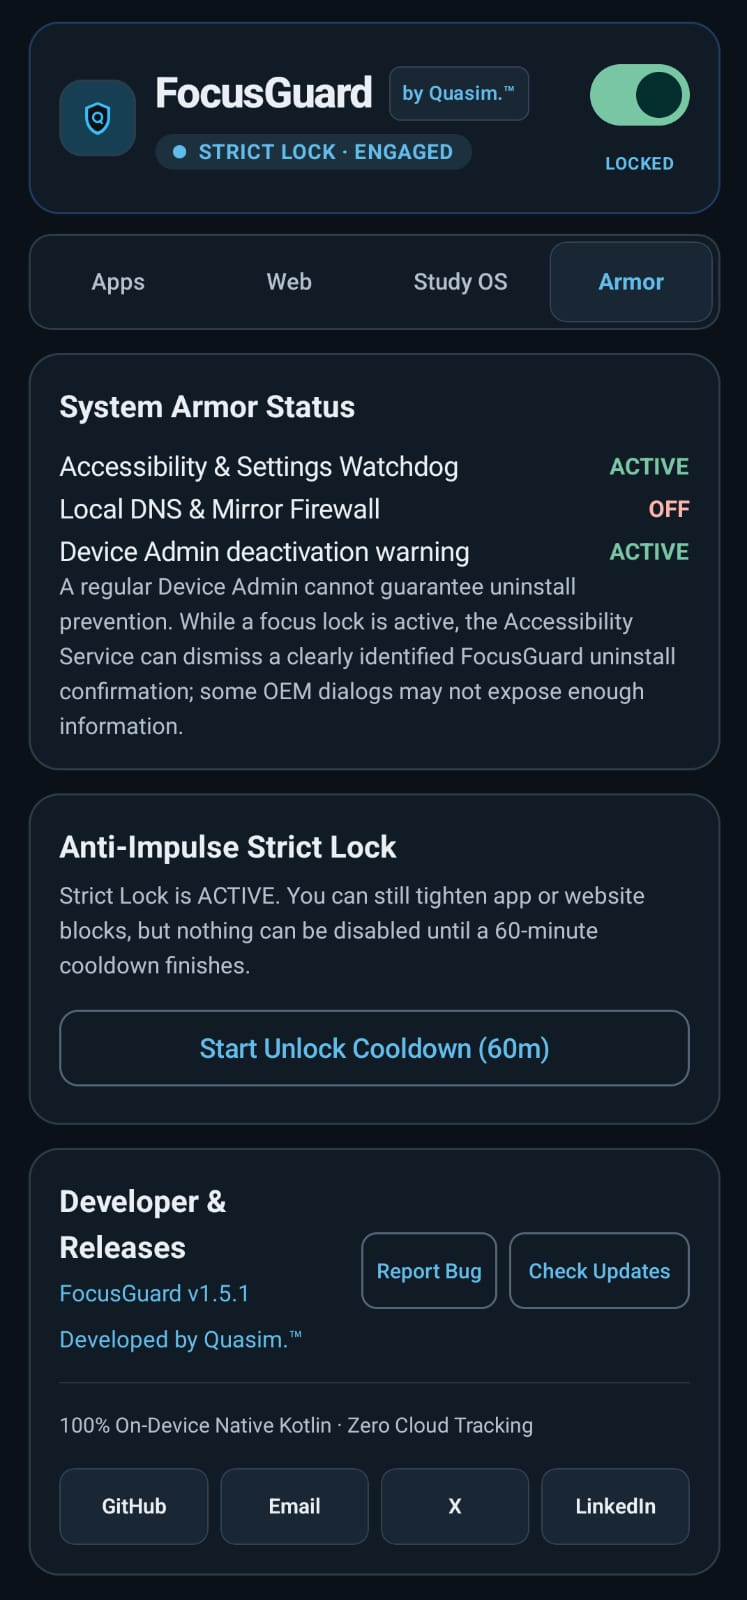
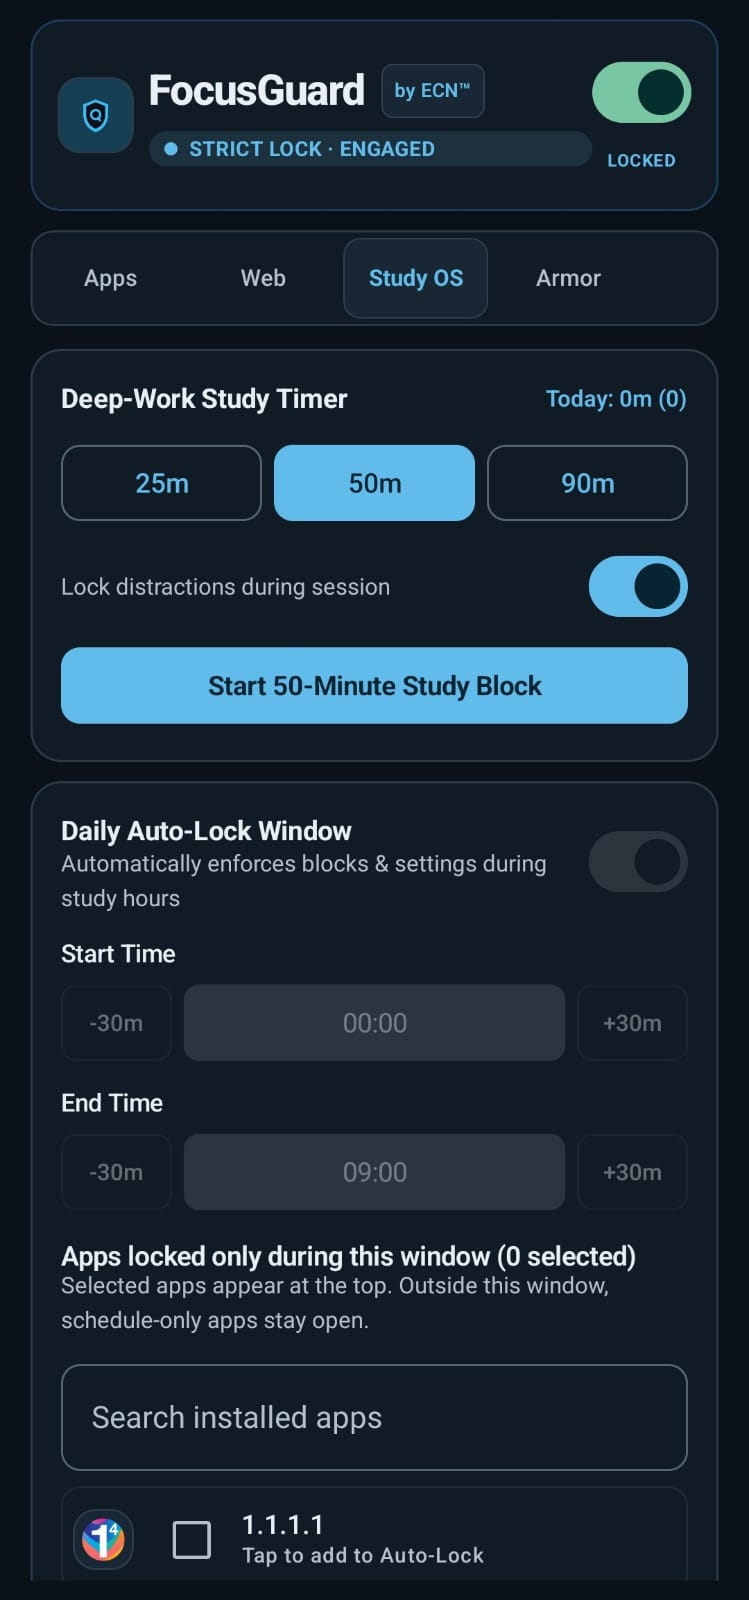
Refactor code structure for improved readability and maintainability

diff --git a/index.html b/index.html
@@ -169,7 +169,7 @@
         <a href="#setup" data-i18n="nav_setup" class="hover:text-ink transition-colors">Setup</a>
         <a href="#ecn" data-i18n="nav_ecn" class="hover:text-ink transition-colors">About ECN</a>
         <!-- Language Toggle Button (English <-> Urdu Nastaliq) -->
-        <button type="button" id="lang-toggle-btn" aria-label="Switch language between English and Urdu"
+        <!-- <button type="button" id="lang-toggle-btn" aria-label="Switch language between English and Urdu"
           class="inline-flex items-center gap-1.5 px-2.5 sm:px-3 py-1.5 rounded-xl bg-card border border-strokeBright text-ink hover:border-mint hover:text-mint font-bold text-xs transition-all cursor-pointer">
           <svg class="w-3.5 h-3.5 text-mint shrink-0" viewBox="0 0 24 24" fill="none" stroke="currentColor"
             stroke-width="2">
@@ -178,7 +178,7 @@
             <path d="M12 2a15.3 15.3 0 0 1 4 10 15.3 15.3 0 0 1-4 10 15.3 15.3 0 0 1-4-10 15.3 15.3 0 0 1 4-10z" />
           </svg>
           <span id="lang-toggle-label" class="font-urdu text-xs leading-none">اردو</span>
-        </button>
+        </button> -->
       </div>
 
       <div class="flex items-center gap-1.5 shrink-0">
@@ -221,7 +221,7 @@
         <a href="https://github.com/quasimkhan/FocusGuard/wiki" target="_blank" rel="noopener" data-i18n="mob_wiki"
           class="mobile-nav-link px-3 py-2.5 rounded-xl hover:bg-card hover:text-ink">GitHub Wiki ↗</a>
         <!-- Language Toggle Button (English <-> Urdu Nastaliq) -->
-        <button type="button" id="lang-toggle-btn" aria-label="Switch language between English and Urdu"
+        <!-- <button type="button" id="lang-toggle-btn" aria-label="Switch language between English and Urdu"
           class="inline-flex items-center justify-center gap-1.5 px-2.5 sm:px-3 py-1.5 rounded-xl bg-card border border-strokeBright text-ink hover:border-mint hover:text-mint font-bold text-xs transition-all cursor-pointer">
           <svg class="w-3.5 h-3.5 text-mint shrink-0" viewBox="0 0 24 24" fill="none" stroke="currentColor"
             stroke-width="2">
@@ -230,7 +230,7 @@
             <path d="M12 2a15.3 15.3 0 0 1 4 10 15.3 15.3 0 0 1-4 10 15.3 15.3 0 0 1-4-10 15.3 15.3 0 0 1 4-10z" />
           </svg>
           <span id="lang-toggle-label" class="font-urdu text-xs leading-none">اردو</span>
-        </button>
+        </button> -->
       </div>
     </div>
   </header>
@@ -242,9 +242,7 @@
       <div id="hero-copy-col" class="lg:col-span-7 text-center lg:text-left reveal">
         <div
           class="inline-flex flex-wrap items-center justify-center gap-2 px-3 py-1 rounded-full bg-mint/10 border border-mint/30 text-mint text-[10px] sm:text-[11px] font-extrabold tracking-wider uppercase mb-4">
-          <span class="relative flex h-2 w-2">
-            <span class="relative inline-flex rounded-full h-2 w-2 bg-mint"></span>
-          </span>
+
           <span data-i18n="hero_badge">Free Forever · Zero Ads · 100% Offline</span>
         </div>
 
@@ -659,19 +657,26 @@
         <div class="bento-card p-3.5 text-center max-w-[300px] sm:max-w-none mx-auto w-full">
           <img src="images/1.png" alt="Command Dashboard" loading="lazy"
             class="w-full rounded-2xl border border-stroke mb-3" />
-          <h4 data-i18n="scr_1_title" class="text-sm font-extrabold">Command Dashboard</h4>
-          <p data-i18n="scr_1_desc" class="text-xs text-dim mt-0.5">Live shield health & lock timers</p>
+          <h4 data-i18n="scr_1_title" class="text-sm font-extrabold">Command Dashboard | Apps & Shorts Filter</h4>
+          <p data-i18n="scr_1_desc" class="text-xs text-dim mt-0.5">Live shield health & lock timers | Per-app Open,
+            Pause, or Block rules</p>
         </div>
         <div class="bento-card p-3.5 text-center max-w-[300px] sm:max-w-none mx-auto w-full">
           <img src="images/2.png" alt="Apps & Shorts Control" loading="lazy"
             class="w-full rounded-2xl border border-stroke mb-3" />
-          <h4 data-i18n="scr_2_title" class="text-sm font-extrabold">Apps & Shorts Filter</h4>
-          <p data-i18n="scr_2_desc" class="text-xs text-dim mt-0.5">Per-app Open, Pause, or Block rules</p>
+          <h4 data-i18n="scr_2_title" class="text-sm font-extrabold">Websites Block</h4>
+          <p data-i18n="scr_2_desc" class="text-xs text-dim mt-0.5">Blocks more than 1 lakhs harmful websites</p>
         </div>
         <div class="bento-card p-3.5 text-center max-w-[300px] sm:max-w-none mx-auto w-full">
           <img src="images/3.png" alt="Study OS & Strict Lock" loading="lazy"
             class="w-full rounded-2xl border border-stroke mb-3" />
-          <h4 data-i18n="scr_3_title" class="text-sm font-extrabold">Study OS & Armor</h4>
+          <h4 data-i18n="scr_3_title" class="text-sm font-extrabold">Study OS</h4>
+          <p data-i18n="scr_3_desc" class="text-xs text-dim mt-0.5">Block only while studying | Daily Auto Block</p>
+        </div>
+        <div class="bento-card p-3.5 text-center max-w-[300px] sm:max-w-none mx-auto w-full">
+          <img src="images/4.png" alt="Study OS & Strict Lock" loading="lazy"
+            class="w-full rounded-2xl border border-stroke mb-3" />
+          <h4 data-i18n="scr_4_title" class="text-sm font-extrabold">Armor & Settings</h4>
           <p data-i18n="scr_3_desc" class="text-xs text-dim mt-0.5">Pomodoro & tamper-proof cooldowns</p>
         </div>
       </div>
@@ -888,7 +893,7 @@
                 Attention</h3>
               <p data-i18n="ecn_p2_desc" class="text-xs text-dim leading-relaxed">
                 Recognizing how short-form algorithms and explicit content erode student focus and character, ECN
-                commissioned FocusGuard as a zero-cost, privacy-first shield for every student.
+                commissioned FocusGuard as a zero-cost, privacy-first shield for youth.
               </p>
             </div>
 
@@ -904,7 +909,7 @@
             </div>
           </div>
 
-          <!-- Quranic Anchor for ECN's Educational Mission -->
+          <!-- Quranic Anchor for ECN's Educational Mission
           <div
             class="bg-void/60 border border-stroke rounded-2xl p-4 sm:p-5 flex flex-col md:flex-row md:items-center justify-between gap-4">
             <div class="md:max-w-xl">
@@ -918,7 +923,7 @@
             <p dir="rtl" class="font-quran text-xl sm:text-2xl leading-[2] text-slate-100 text-right shrink-0">
               يَرْفَعِ اللَّهُ الَّذِينَ آمَنُوا مِنكُمْ وَالَّذِينَ أُوتُوا الْعِلْمَ دَرَجَاتٍ
             </p>
-          </div>
+          </div> -->
         </div>
       </div>
     </div>
@@ -1033,7 +1038,7 @@
         rel_fallback: "Verified builds signed by ECN / Quasim · Free forever",
         metric_1_val: "0 Bytes",
         metric_1_lbl: "Data Tracked",
-        metric_2_val: "130k+",
+        metric_2_val: "150k+",
         metric_2_lbl: "Domains Blocked",
         metric_3_val: "100%",
         metric_3_lbl: "On-Device VPN",
